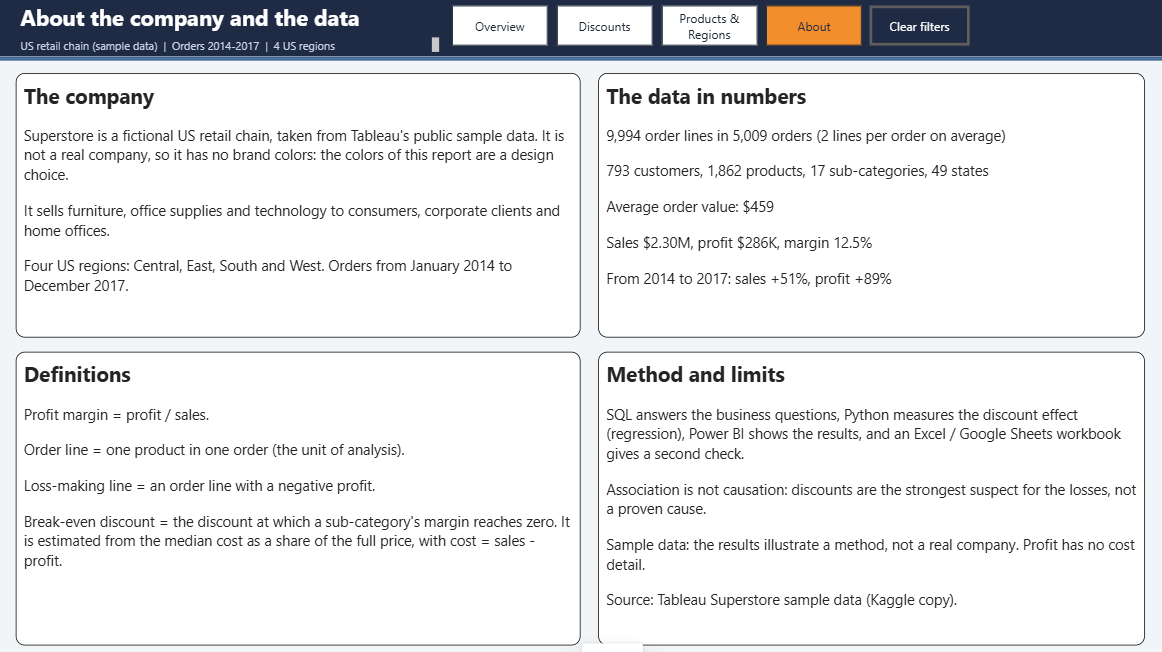
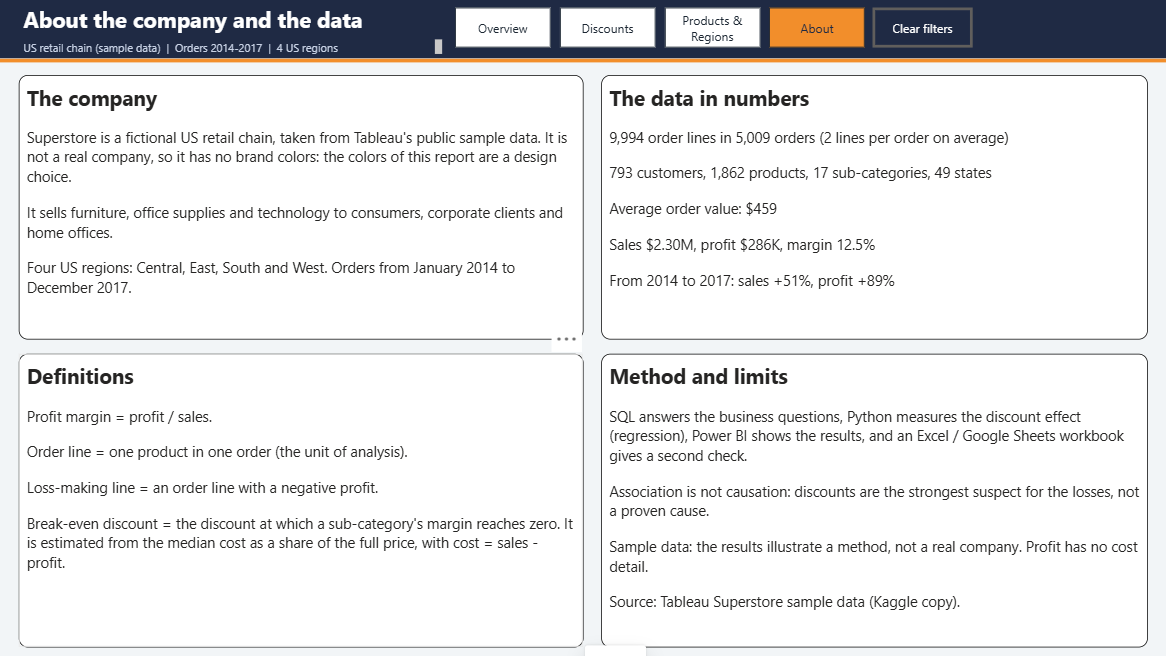
Fix dashboard accent stripe color (orange) and refresh dashboard screenshots

Changed region(s): [[0.0, 0.0, 1.0, 0.5215], [0.0, 0.5521, 0.9914, 1.0], [0.5577, 0.9816, 0.9914, 1.0]]

diff --git a/powerbi/build_pbip.py b/powerbi/build_pbip.py
@@ -357,7 +357,7 @@ def accent_stripe(name):
     objs = {"shape": [{"properties": {"tileShape": lit("'rectangle'")}}],
             "fill": [{"properties": {"fillColor": solid(AMBER)}, "selector": {"id": "default"}}],
             "outline": [{"properties": {"show": lit("false")}}]}
-    return visual(name, 0, 64, 1280, 4, "shape", objs, z=1)
+    return visual(name, 0, 64, 1280, 4, "shape", objects=objs, z=1)
 
 
 def cards(names_and_specs):
